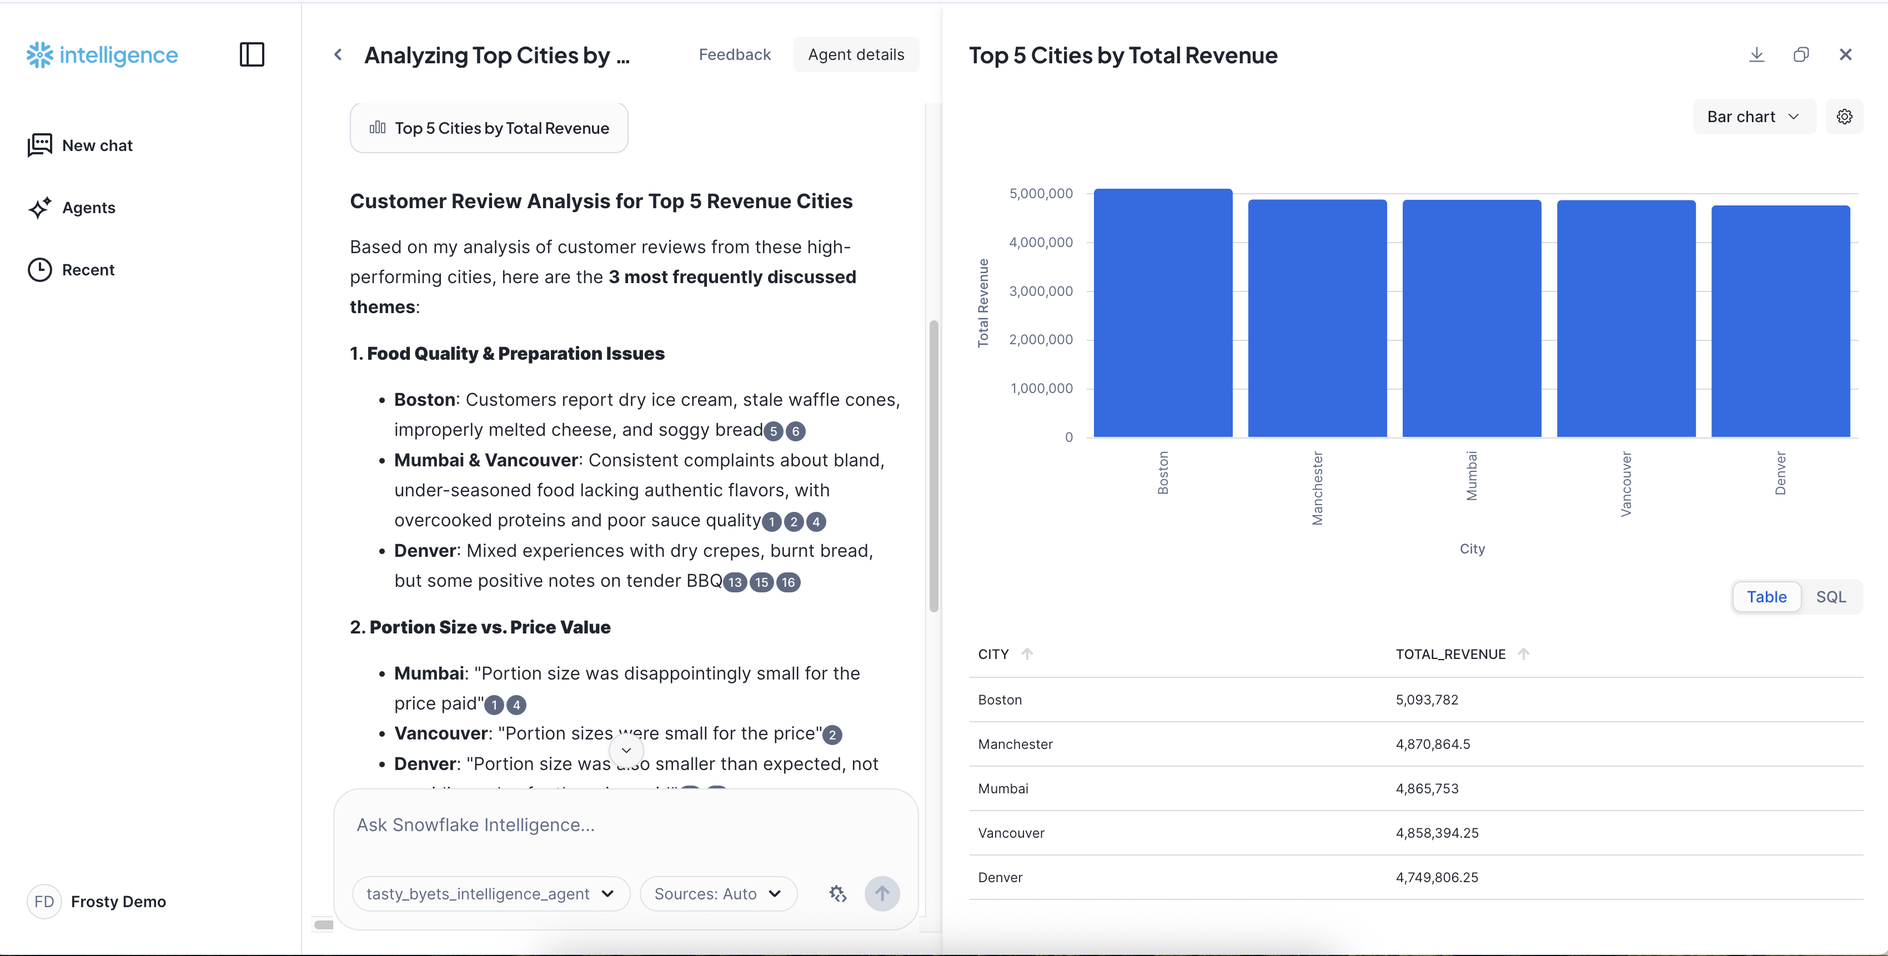
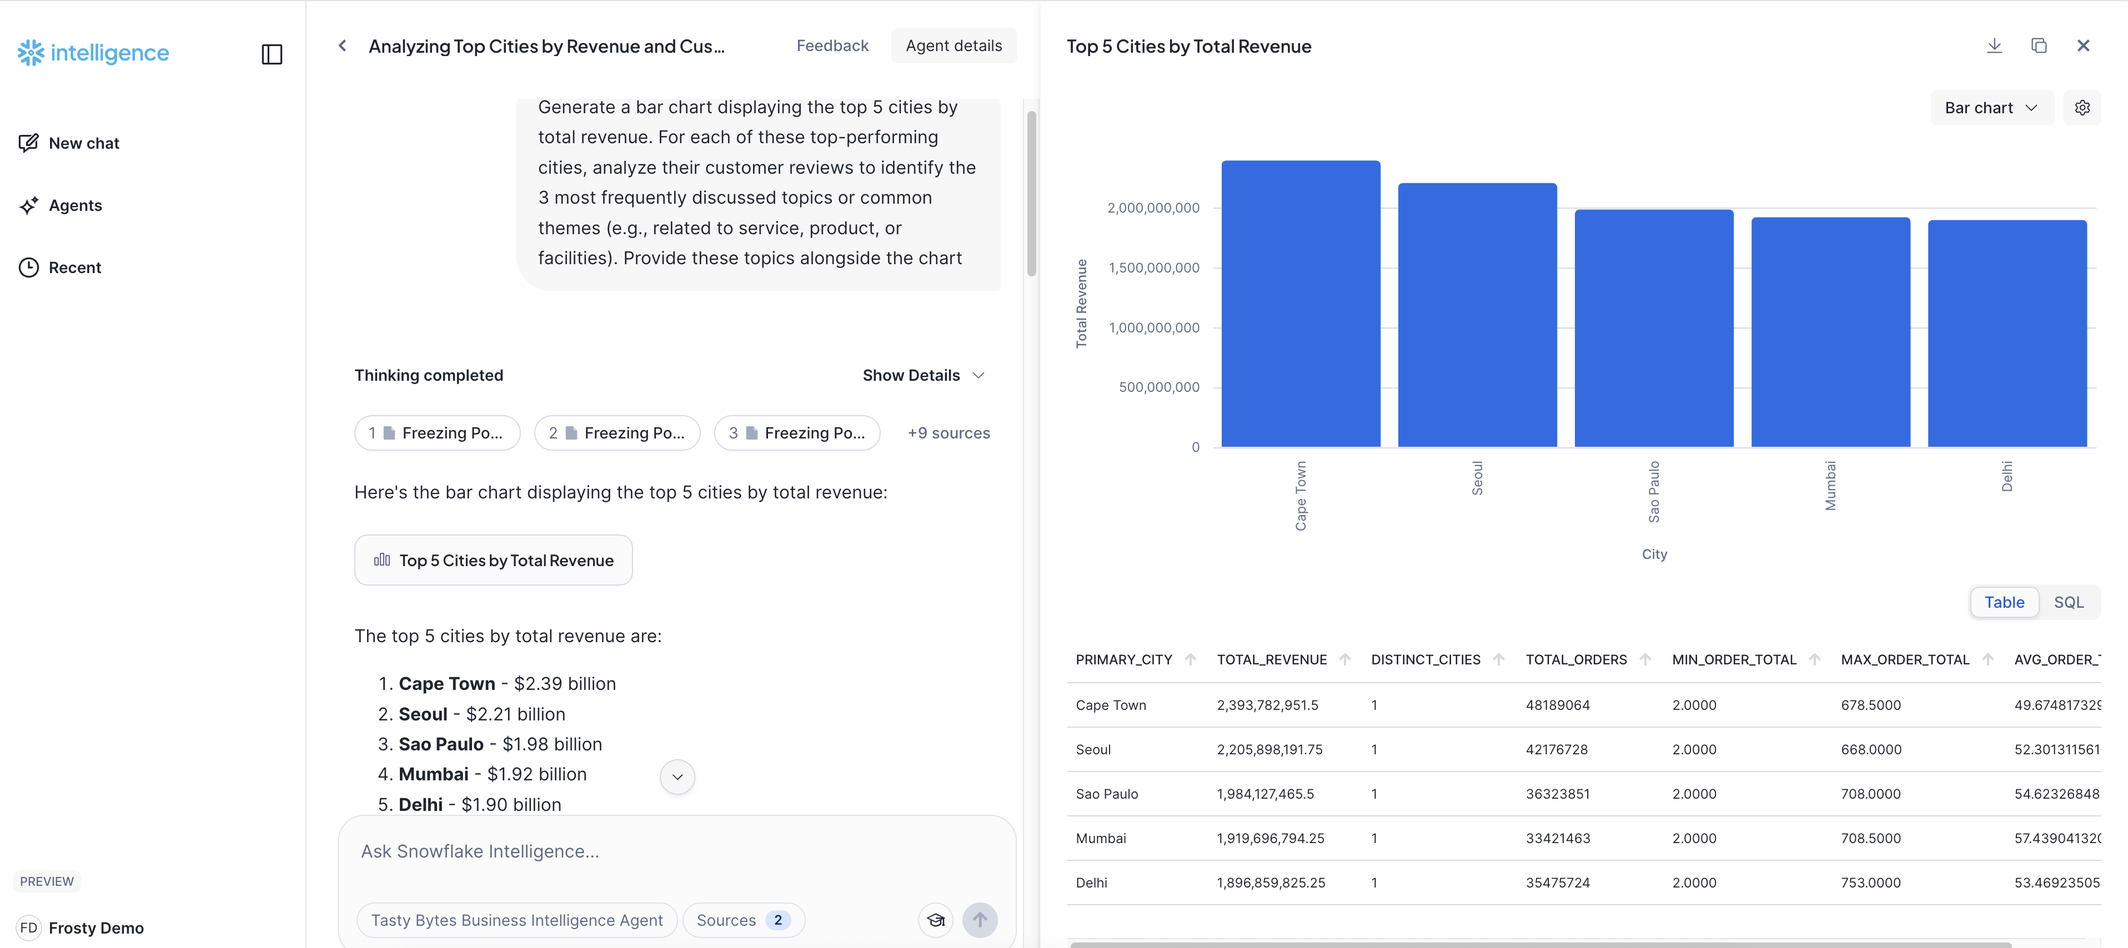
added updated snowflake intelligence instructions + images

diff --git a/site/sfguides/src/zero_to_snowflake/zero_to_snowflake.md b/site/sfguides/src/zero_to_snowflake/zero_to_snowflake.md
@@ -1255,7 +1255,7 @@ Ultimately, Cortex Search transforms how Tasty Bytes analyzes customer feedback.
 
 ## Optional: Cortex Analyst
 
-Duration: 10
+Duration: 3
 
 <img src='./assets/cortex_analyst_header.png'>
 
@@ -1386,102 +1386,178 @@ Here's the "Snowflake Intelligence - Unified AI Business Intelligence" quickstar
 
 ## Snowflake Intelligence
 
-Duration: 6
+Duration: 7
 
 <img src='./assets/si_header.png'>
 
 ### Overview
 
-Traditional business intelligence often leaves critical insights fragmented across various reports and systems, making it difficult for executives to connect data points like customer sentiment to financial performance. Snowflake Intelligence addresses this by unifying the capabilities of Cortex Search (for unstructured data like reviews) and Cortex Analyst (for structured data and natural language to SQL) into a single conversational AI agent. This empowers non-technical users to ask complex questions in natural language and receive immediate, visualized answers that would otherwise require extensive manual analysis.
+The Chief Operating Officer at Tasty Bytes receives dozens of fragmented reports each week: customer satisfaction dashboards, revenue analytics, operational performance metrics, and market analysis. Critical business insights remain buried across separate systems: customer sentiment lives in review platforms, sales data sits in financial dashboards, and operational metrics exist in isolated performance tools.
 
-### Prerequisites:
+When the COO needs to understand why Q3 revenue dropped, connecting customer feedback sentiment with actual financial performance requires hours of manual analysis, SQL expertise, and cross-referencing multiple data sources. This is a significant hurdle for executives and other non-technical roles.
+
+In this section, we'll demonstrate how Snowflake Intelligence tackles this challenge by combining the capabilities of Cortex Search and Cortex Analyst, which are made available through the setup. This integration allows for a single conversational AI agent. You'll see how executives and other non-technical roles can ask natural language questions and receive immediate answers with visualizations. This kind of insight would normally take weeks of analyst work across multiple teams.
+
+**Prerequisites:**
 
 Before starting this module, your environment includes pre-configured AI services that power Snowflake Intelligence:
 
-  * **Cortex Search Service:** `tasty_bytes_review_search` - analyzing customer reviews and feedback
+* **Cortex Search Service:** `tasty_bytes_review_search` - analyzing customer reviews and feedback
+    * *Note for Advanced Users:* If you want to build your own Cortex Search from scratch, an optional setup module is available. For a detailed guide, click the link to the: [Cortex Search Module](vignette-3-cortex-search.md)
 
-      * *Note for Advanced Users:* If you want to build your own Cortex Search from scratch, an optional setup module is available. For a detailed guide, click the link to the: [Cortex Search Module](https://quickstarts.snowflake.com/guide/zero_to_snowflake/index.html?index=..%2F..index#18)
+* **Cortex Analyst Service:** `TASTY_BYTES_BUSINESS_ANALYTICS` - for translating natural language questions into SQL and providing insights from structured data, enabling self-service analytics.
+    * *Note for Advanced Users:* If you prefer to build your own Cortex Analyst semantic model from scratch, you can access the detailed setup module for guidance. Access the detailed setup by clicking on the: [Cortex Analyst Module](vignette-3-cortex-analyst.md)
 
-  * **Cortex Analyst Service:** `TASTY_BYTES_BUSINESS_ANALYTICS` - for translating natural language questions into SQL and providing insights from structured data, enabling self-service analytics.
-
-      * *Note for Advanced Users:* If you prefer to build your own Cortex Analyst semantic model from scratch, you can access the detailed setup module for guidance. Access the detailed setup by clicking on the: [Cortex Analyst Module](https://quickstarts.snowflake.com/guide/zero_to_snowflake/index.html?index=..%2F..index#19)
+---
 
 ### Step 1 - Upload Semantic Model
 
-To enable business analytics capabilities in Snowflake Intelligence, you need to upload the pre-built semantic model file to your Snowflake stage. You can download the necessary YAML file directly by clicking this link: [Cortex Analyst Semantic Model](https://github.com/Snowflake-Labs/sfguide-getting-started-from-zero-to-snowflake/blob/main/semantic_models/TASTY_BYTES_BUSINESS_ANALYTICS.yaml)
+To enable business analytics capabilities in Snowflake Intelligence, you need to upload the pre-built semantic model file to your Snowflake stage. You can **download the necessary YAML file directly by clicking this link:** [Cortex Analyst Semantic Model :material-download:](semantic_models/TASTY_BYTES_BUSINESS_ANALYTICS.yaml){: download="TASTY_BYTES_BUSINESS_ANALYTICS.yaml" }
+
+**Important:** If clicking the link opens the file in your browser instead of downloading it, please right-click on the link and select **"Save Link As"** to download the YAML file to your local machine.
 
 Here's how to upload the semantic model:
 
-1.  **Navigate to Cortex Analyst:** In Snowsight, go to **AI & ML** Studio and then select **Cortex Analyst**.
-2.  **Set Role and Warehouse:**
-      * Change your **role** to `TB_ADMIN`.
-      * Set the **warehouse** to `TB_CORTEX_WH`.
-3.  **Upload your YAML file:** Click the **Upload your yaml file** button.
-4.  **Configure Upload Details:** In the upload file screen, set the following:
-      * **Database:** `Tb_101`
-      * **Schema:** `semantic_layer`
-      * **Stage:** `semantic_model_stage`
-5.  **Click Upload:** This YAML file contains the pre-configured semantic model that defines the business analytics layer, including customer loyalty metrics and order data.
-6.  **Save the YAML file:** After clicking upload, save the YAML file. The semantic model will then appear in the Cortex Analyst panel, in the semantic models section.
+1.  **Navigate to Cortex Analyst**: In Snowsight, go to **AI & ML Studio** and then select **Cortex Analyst**.
 
-<img src = "assets/vignette-3/snowflake-intelligence-yaml-file-upload.gif">
+2.  **Set Role and Warehouse**:
 
+      * Change your role to `TB_DEV`.
+      * Set the warehouse to `TB_CORTEX_WH`.
 
-### Step 2 - Create Unified Agent
+3.  **Upload your YAML file**: Click the **Upload your yaml file** button.
 
-With pre-configured AI services available, let’s create a Cortex Agent that combines these capabilities into a unified intelligence interface, transforming how executives interact with data.
+4.  **Configure Upload Details**: In the upload file screen, set the following:
 
-**Create the Agent:**
+      * **Database**: `Tb_101`
+      * **Schema**: `semantic_layer`
+      * **Stage**: `semantic_model_stage`
 
-1.  Open Snowsight and navigate to the **AI & ML** Studio, then select **Agents**.
+5.  **Click Upload**: This YAML file contains the pre-configured semantic model that defines the business analytics layer, including customer loyalty metrics and order data.
+
+6.  **Save the YAML file**: After clicking upload, save the YAML file. The semantic model will then appear in the Cortex Analyst panel, in the semantic models section.
+
+![snowflake-intelligence-yaml-file-upload](assets/vignette-3/snowflake-intelligence-yaml-file-upload.gif)
+
+-----
+
+### Step 2: Create a Unified Agent
+
+With your AI services pre-configured, you can now create a Cortex Agent that combines these capabilities into a single, unified intelligence interface.
+
+### Create the Agent
+
+1.  In **Snowsight**, navigate to the **AI & ML Studio**, then select **Agents**.
 2.  Click **Create Agent**.
+3.  In the "Create New Agent" window, click **Create agent**.
+4.  **Initial Configuration**:
+      * **Platform integration**: Ensure "Create this agent for Snowflake Intelligence" is checked.
+      * **Database and schema**: This will default to `SNOWFLAKE_INTELLIGENCE.AGENTS`.
+      * **Agent object name**: Enter `tasty_bytes_intelligence_agent`.
+      * **Display name**: Enter `Tasty Bytes Business Intelligence Agent`.
+5.  Click **Create agent**.
 
-**Configure the Agent:**
+![snowflake-intelligence-create-agent](assets/vignette-3/snowflake-intelligence-create-agent.png)
 
-  * **Name:** `tasty_bytes_intelligence_agent`
-  * **Agent Overview:** 
+-----
 
-    `This agent analyzes customer feedback and business performance data for Tasty Bytes food trucks.It identifies operational issues, competitive threats, and growth opportunities by connecting customer reviews with revenue and loyalty metrics to provide actionable business insights.`
+### Configure the Agent
 
-  * **Response Instruction:** 
-  
-  You are a business intelligence analyst for Tasty Bytes food trucks. When analyzing data:
+After creating the agent, click on its name from the agent list to open the details page, then click **Edit** to begin configuring it.
 
-1.  Combine customer review insights with specific revenue and loyalty data to provide comprehensive business intelligence
-2.  Quantify business impact with specific revenue amounts and market sizes
-3.  Identify operational risks, competitive threats, and growth opportunities
-4.  Provide clear, actionable recommendations for executive decision-making
-5.  Use visualizations when helpful to illustrate business insights
-6.  Explain the correlation between customer feedback and business performance
-7.  Focus on strategic insights that drive business outcomes
+![snowflake-intelligence-edit-agent](assets/vignette-3/snowflake-intelligence-edit-agent.gif)
 
-  * **Orchestration Instruction:** 
+#### **1. About Tab**
 
-    `Use both Cortex Search and Cortex Analyst to provide unified business intelligence.Analyze customer feedback sentiment and operational issues from reviews, then correlate findings with revenue performance, customer loyalty metrics, and market data. Present insights with revenue quantification and strategic recommendations`
+  * **Display name**: `Tasty Bytes Business Intelligence Agent`
+  * **Description**:
+```
+This agent analyzes customer feedback and business performance data for Tasty Bytes food trucks. It identifies operational issues, competitive threats, and growth opportunities by connecting customer reviews with revenue and loyalty metrics to provide actionable business insights.
+```
 
-  * **In the Knowledge Section:**
+#### **2. Instructions Tab**
 
-   > **Important Note on Semantic Models/Views:**
+  * **Response Instruction**:
+```
+You are a business intelligence analyst for Tasty Bytes food trucks. When analyzing data:
+1. Combine customer review insights with specific revenue and loyalty data to provide comprehensive business intelligence
+2. Quantify business impact with specific revenue amounts and market sizes
+3. Identify operational risks, competitive threats, and growth opportunities
+4. Provide clear, actionable recommendations for executive decision-making
+5. Use visualizations when helpful to illustrate business insights
+6. Explain the correlation between customer feedback and business performance
+7. Focus on strategic insights that drive business outcomes
+```
 
-> This quickstart primarily uses a pre-built **semantic model** uploaded in Step 1. However, if you built your Cortex Analyst semantic view from scratch using the [Cortex Analyst Module](https://quickstarts.snowflake.com/guide/zero_to_snowflake/index.html?index=..%2F..index#20), you will select your **semantic view** here instead of a semantic model. After setting the **Database** to `TB_101` and **Schema** to `semantic_layer`, your semantic view will be listed and selectable under that schema.
+#### **3. Tools Tab**
 
-Now, let's proceed in adding our uploaded semantic model:
+> **Note**: This lab primarily uses a pre-built **semantic model** uploaded in Step 1. However, if you built your Cortex Analyst semantic view from scratch using the [Cortex Analyst Module](vignette-3-cortex-analyst.md), you will select your **semantic view** here instead of a semantic model. After setting the **Database** to `TB_101` and **Schema** to `semantic_layer`, your semantic view will be listed and selectable under that schema.
 
-* **Add your uploaded semantic model from Step 1:**
-    * **Database:** `TB_101`
-    * **Schema:** `semantic_layer`
-    * **Stage:** `semantic_model_stage`
-    * **file-name** `TASTY_BYTES_BUSINESS_ANALYTICS.yaml`
-    * Remove the `.yaml` extension from display name
+Now, let's add the semantic model we uploaded in Step 1:
 
-* **Add pre-configured Cortex Search Service:**
-    * **Database:** `TB_101`
-    * **Schema:** `harmonized`
-    * **Select pre-built Cortex Search Service:** select `tasty_bytes_review_search`
-    * **Enter for display name:** `tasty_bytes_review_search`
-    * **URL Column:** `Review`
+**Add the Cortex Analyst Tool:**
 
-<img src = "assets/vignette-3/snowflake-intelligence-create-agent.gif">
+1.  Click **Add** next to "Cortex Analyst."
+2.  Select the **Semantic model file** radio button.
+3.  **Configure the semantic model location**:
+      * **Schema**: Choose `TB_101.SEMANTIC_LAYER`.
+      * **Stage**: Choose `SEMANTIC_MODEL_STAGE`.
+      * **File Selection**: Pick your uploaded YAML file from the list.
+4.  **Configure tool details**:
+      * **Name**: Enter `tasty_bytes_business_analytics`.
+      * **Description**:
+```
+Searches customer reviews and feedback to identify sentiment, operational issues, and customer satisfaction insights
+```
+5.  **Configure execution settings**:
+      * **Warehouse**: Select **Custom** and choose `TB_CORTEX_WH`.
+      * **Query timeout**: Enter `300`.
+6.  Click **Add**.
+
+![snowflake-intelligence-add-analyst](assets/vignette-3/snowflake-intelligence-add-analyst.gif)
+
+-----
+
+**Add the Cortex Search Services Tool:**
+
+1.  Click **Add** next to "Cortex Search Services."
+2.  **Configure tool details**:
+      * **Name**: `tasty_bytes_review_search`.
+      * **Description**: 
+``` 
+Searches customer reviews and feedback to identify sentiment, operational issues, and customer satisfaction insights
+``` 
+3.  **Configure data source location**:
+      * **Schema**: Choose `TB_101.HARMONIZED`.
+      * **Search service**: Choose `TB_101.HARMONIZED.TASTY_BYTES_REVIEW_SEARCH`.
+4.  **Configure search result columns**:
+      * **ID column**: Select **Review**
+      * **Title column**: Select **TRUCK_BRAND_NAME**
+5.  **Configure search filters (optional)**:
+      * Click **Add filter** to add up to 5 optional filters.
+6.  Click **Add**.
+
+![snowflake-intelligence-add-search](assets/vignette-3/snowflake-intelligence-add-search.gif)
+
+#### **4. Orchestration Tab**
+
+```
+Use both Cortex Search and Cortex Analyst to provide unified business intelligence.
+Analyze customer feedback sentiment and operational issues from reviews, then correlate findings with revenue performance, customer loyalty metrics, and market data.
+Present insights with revenue quantification and strategic recommendations.
+```
+
+#### **5. Access Tab**
+
+> To control who can use your agent in this lab, you'll simply keep the default ACCOUNTADMIN access, which is sufficient for testing, with no extra configuration needed; however, you have the option to add more roles, such as TB_ADMIN, by clicking Add role.
+
+#### **6. Save Configuration**
+
+  * Click **Save** in the top right corner to finalize your agent's configuration.
+
+Your unified intelligence agent is now ready to provide conversational business intelligence through the Snowflake Intelligence interface.
+
+-----
 
 ### Step 3 - Access Snowflake Intelligence Interface
 
@@ -1489,11 +1565,14 @@ With your intelligence agent created, we can now access the Snowflake Intelligen
 
 **Access the interface:**
 
-1.  Open Snowsight and navigate to the **AI & ML** Studio, then select **Snowflake Intelligence**.
-2.  Select our created agent: `tasty_bytes_intelligence_agent`.
-3.  Select the sources: both `tasty_bytes_review_search` and `tasty_bytes_business_analytics`.
+1.  Open Snowsight and navigate to the AI & ML Studio, then select **Snowflake Intelligence**
+2.  Select our created agent: `tasty_bytes_intelligence_agent`
+3.  Select the sources: select `tasy_byets_review_search` and `tasty_bytes_business_analytics`
 
 You are now ready to demonstrate unified business intelligence through natural language.
+
+![snowflake-intelligence-interface](assets/vignette-3/snowflake-intelligence-interface.gif)
+-----
 
 ### Step 4 - Correlate Revenue & Customer Themes
 
@@ -1501,11 +1580,12 @@ Let's deep dive into our highest-earning markets by mapping their financial succ
 
 **Prompt:**
 
-`Generate a bar chart displaying the top 5 cities by total revenue. For each of these top-performing cities, analyze their customer reviews to identify the 3 most frequently discussed topics or common themes (e.g., related to service, product, or facilities). Provide these topics alongside the chart.`
+```
+Generate a bar chart displaying the top 5 cities by total revenue. For each of these top-performing cities, analyze their customer reviews to identify the 3 most frequently discussed topics or common themes (e.g., related to service, product, or facilities). Provide these topics alongside the chart
+```
+![snowflake-intelligence-prompt2](assets/vignette-3/snowflake-intelligence-prompt1.png)
 
-<img src = "assets/vignette-3/snowflake-intelligence-prompt1.png">
-
-> **Key insight**: This analysis really shows off what Snowflake Intelligence can do\! It helps us connect the dots between how much money our top cities are making and what our customers in those cities are actually saying. We can quickly see our best-performing markets by revenue, and right alongside, get a clear picture of the most common things people are talking about in their reviews. This gives us a much richer, more human understanding of what's truly driving success – or perhaps what subtle issues might be brewing – even in our strongest areas. It's all about making smarter, more informed decisions, and we get these powerful insights just by asking a simple question.
+**Key insight:** This analysis really shows off what Snowflake Intelligence can do! It helps us connect the dots between how much money our top cities are making and what our customers in those cities are actually saying. We can quickly see our best-performing markets by revenue, and right alongside, get a clear picture of the most common things people are talking about in their reviews. This gives us a much richer, more human understanding of what's truly driving success – or perhaps what subtle issues might be brewing – even in our strongest areas. It's all about making smarter, more informed decisions, and we get these powerful insights just by asking a simple question.
 
 ### Step 5 - Analyze Underperforming Markets
 
@@ -1513,16 +1593,20 @@ Now let's explore strategies to address these key customer pain points and devel
 
 **Prompt:**
 
-`Identify the 5 cities with the lowest total revenue. For each of these cities, analyze their customer reviews to identify the 3 most frequently mentioned pain points or areas of dissatisfaction. Please present this as a table, showing the city, its total revenue, and the identified customer pain points.`
+```
+Identify the 5 cities with the lowest total revenue. For each of these cities, analyze their customer reviews to identify the 3 most frequently mentioned pain points or areas of dissatisfaction. Please present this as a table, showing the city, its total revenue, and the identified customer pain points.
+```
+![snowflake-intelligence-prompt2](assets/vignette-3/snowflake-intelligence-prompt2.png)
 
-<img src = "assets/vignette-3/snowflake-intelligence-prompt2.png">
+**Key insight:** This analysis from Snowflake Intelligence gives us a clear picture of our lowest-earning cities and, crucially, shines a light on the exact customer pain points that are holding them back. By directly connecting raw revenue numbers with specific feedback from customer reviews, we can pinpoint where we need to focus our efforts to improve service, product, or support. This provides actionable intelligence to drive targeted growth and customer satisfaction in these challenged markets, all by simply asking a natural language question.
 
-
-> **Key insight**: This analysis from Snowflake Intelligence gives us a clear picture of our lowest-earning cities and, crucially, shines a light on the exact customer pain points that are holding them back. By directly connecting raw revenue numbers with specific feedback from customer reviews, we can pinpoint where we need to focus our efforts to improve service, product, or support. This provides actionable intelligence to drive targeted growth and customer satisfaction in these challenged markets, all by simply asking a natural language question.
+-----
 
 ### Conclusion
 
-Snowflake Intelligence revolutionizes business understanding by seamlessly integrating Cortex Search (unstructured feedback) and Cortex Analyst (structured metrics). This unified AI agent enables users of all technical levels to ask natural language questions and receive visually rich, actionable insights. The result is rapid, data-driven decision-making, transforming fragmented data into clear business advantages.
+What we've just experienced with Tasty Bytes showcases a fundamental shift in how businesses can truly understand their data. By seamlessly integrating Snowflake Cortex Search for deep dives into unstructured customer feedback and Cortex Analyst for conversational insights from structured business metrics, we've brought a truly unified business intelligence to life.
+
+You saw firsthand the power of this integration: users of all technical levels can now simply ask natural language questions and immediately receive visually rich, actionable answers. This direct and intuitive access to insights fundamentally transforms how organizations can swiftly identify operational risks, precisely quantify financial impact, and pinpoint new growth opportunities. It's clear that Snowflake Intelligence empowers rapid, data-driven decision-making, converting what was once fragmented data into clear, compelling business advantage for everyone.
 
 ## Governance with Horizon
 Duration: 1
